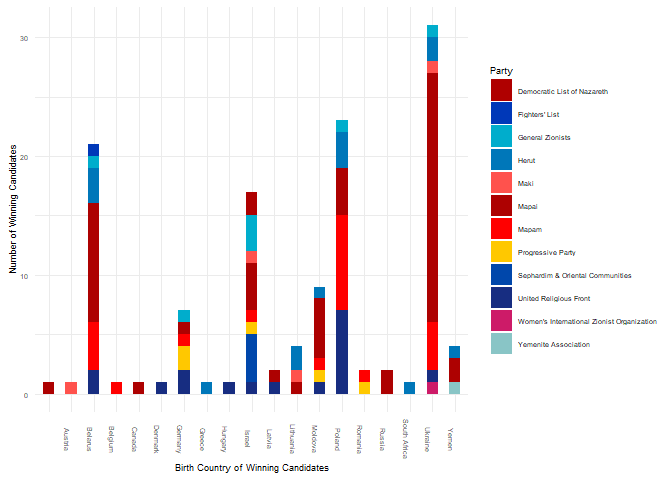
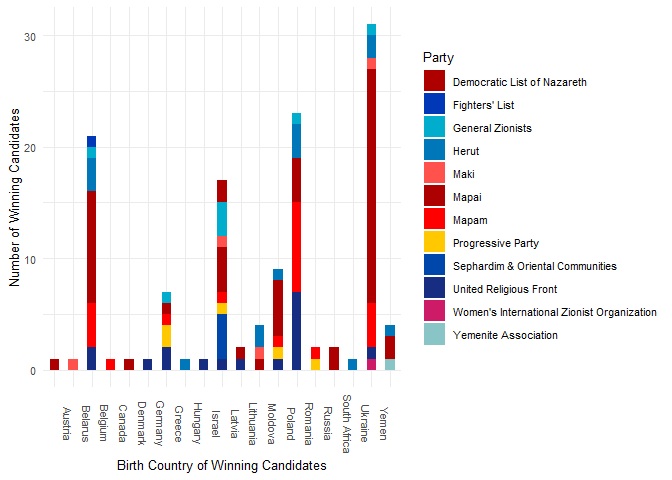
changed plot text size

Changed region(s): [[0.0312, 0.0312, 0.9688, 1.0], [0.0, 0.2188, 0.0625, 0.5938], [0.0312, 0.0625, 0.0625, 0.0938]]

diff --git a/README.md b/README.md
@@ -100,7 +100,7 @@ ggplot(df, aes(x = Birth.Country..Present., fill = Party)) +
   geom_bar(width = 0.5) + 
   theme_minimal() + 
   labs(x = "Birth Country of Winning Candidates", y = "Number of Winning Candidates", fill = "Party") + 
-  theme(axis.text.x = element_text(angle = -90), text = element_text(size = 7)) +  
+  theme(axis.text.x = element_text(angle = -90), text = element_text(size = 10)) +  
   scale_fill_manual(values = c("#AF0000", "#0038B8", "#00ADCC", "#0077B9", "#FF524D", "#AD0101", "#FF0000", "#FFC800", "#0047AB", "#172d81", "#cd1b68", "#89C5C6"))
 ```
 
